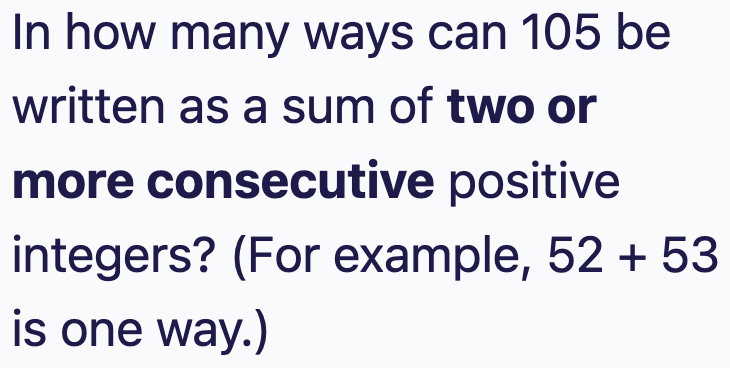
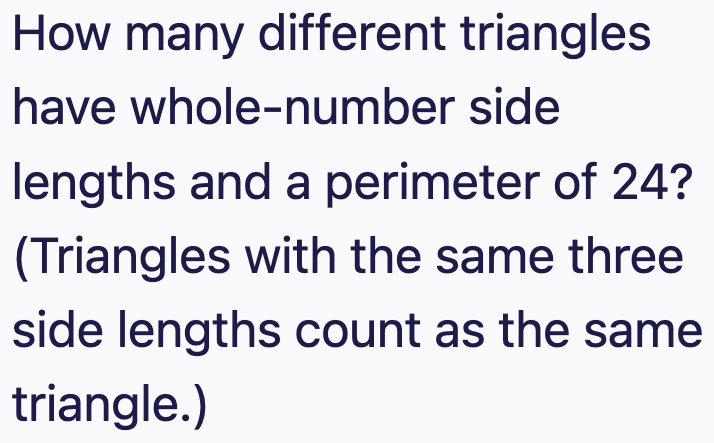
Session 5: make the last two problems really hard (chords, integer triangles)

diff --git a/docs/season/day05_coach_dd994bfe.html b/docs/season/day05_coach_dd994bfe.html
@@ -239,27 +239,29 @@
 <li>Check: 938 + 938 = <b>1876</b>, and the six letters are all different. ✓ (A computer search of all cases agrees that 1876 is the greatest.)</li></ol><div class="trick"><b>⚡ Trick:</b> Start with the leftmost digit of the answer (it's usually 1), then work from the end that you can control. To make something greatest, try the biggest digits first and back off only when there's a clash.</div></div>
     </div>
     <div class="prob">
-      <div class="prob-head"><span class="qnum">9</span><span class="topic">Sets</span></div>
+      <div class="prob-head"><span class="qnum">9</span><span class="topic">Geometry (hard)</span></div>
       <img class="qimg" src="img/s5_q10.png" alt="Question image" width="245" draggable="false">
       <button onclick="openSol(this)">Show solution</button>
-      <div class="solution"><span class="ans">Answer: 266</span><ol>
-<li>Count the numbers divisible by at least one of them using inclusion and exclusion. From 1 to 999:
-  <br>by 2: 499, by 3: 333, by 5: 199
-  <br>by 6: 166, by 10: 99, by 15: 66
-  <br>by 30: 33</li>
-<li>At least one = 499 + 333 + 199 − 166 − 99 − 66 + 33 = 733.</li>
-<li>None of them = 999 − 733 = <b>266</b>.</li>
-<li>Quick check: the pattern repeats every 30 numbers, and 8 of every 30 work (1, 7, 11, 13, 17, 19, 23, 29). 999 = 33 × 30 + 9, so 33 × 8 = 264, plus 1 and 7 from the last 9 numbers, gives 266. ✓</li></ol><div class="trick"><b>⚡ Trick:</b> Three sets: add the singles, subtract the pairs, add back the triple. Then "none" = total − "at least one".</div></div>
+      <div class="solution"><span class="ans">Answer: 4</span><ol>
+<li>Find the <b>longest</b> chord through P: the diameter, length 26.</li>
+<li>Find the <b>shortest</b> chord through P: the one perpendicular to OP. Its half-length comes from a right triangle with hypotenuse 13 and leg 5: √(169 − 25) = 12. So the shortest chord is 24.</li>
+<li>As the chord turns around P, its length slides smoothly from 26 down to 24 and back up to 26. So every length between 24 and 26 appears <b>twice</b> (once on each side), except the shortest and longest, which appear once each.</li>
+<li>Whole-number lengths: 24 (1 chord), 25 (2 chords), 26 (1 chord).</li>
+<li>Total: 1 + 2 + 1 = <b>4</b>.</li></ol><div class="trick"><b>⚡ Trick:</b> Chords through a fixed point: find the shortest (perpendicular to the radius line) and the longest (the diameter). Every length in between happens twice by symmetry.</div></div>
     </div>
     <div class="prob">
-      <div class="prob-head"><span class="qnum">10</span><span class="topic">Number theory</span></div>
-      <img class="qimg" src="img/s5_q11.png" alt="Question image" width="243" draggable="false">
+      <div class="prob-head"><span class="qnum">10</span><span class="topic">Counting (hard)</span></div>
+      <img class="qimg" src="img/s5_q11.png" alt="Question image" width="238" draggable="false">
       <button onclick="openSol(this)">Show solution</button>
-      <div class="solution"><span class="ans">Answer: 7</span><ol>
-<li>A sum of <i>k</i> consecutive integers starting at <i>a</i> is <i>k</i> × (middle value). Every way matches one <b>odd factor</b> of the number.</li>
-<li>105 = 3 × 5 × 7 has 8 odd factors: 1, 3, 5, 7, 15, 21, 35, 105.</li>
-<li>The factor 1 gives just "105" on its own, which isn't two or more numbers. So there are 8 − 1 = <b>7</b> ways.</li>
-<li>For example: 52 + 53, 34 + 35 + 36, 19 + ... + 23, 15 + ... + 20, 12 + ... + 18, 6 + ... + 15, 1 + ... + 14. ✓</li></ol><div class="trick"><b>⚡ Trick:</b> The number of ways to write N as a sum of consecutive positive integers equals the number of <b>odd</b> factors of N, minus 1 for N by itself.</div></div>
+      <div class="solution"><span class="ans">Answer: 12</span><ol>
+<li>Call the sides <i>a</i> ≤ <i>b</i> ≤ <i>c</i> with <i>a</i> + <i>b</i> + <i>c</i> = 24.</li>
+<li>Triangle rule: <i>a</i> + <i>b</i> &gt; <i>c</i>. Since <i>a</i> + <i>b</i> = 24 − <i>c</i>, this means 24 − <i>c</i> &gt; <i>c</i>, so <i>c</i> &lt; 12. Also <i>c</i> is the biggest side, so <i>c</i> ≥ 8.</li>
+<li>Go through each <i>c</i> and count pairs <i>a</i> ≤ <i>b</i> ≤ <i>c</i> with <i>a</i> + <i>b</i> = 24 − <i>c</i>:
+  <br><i>c</i> = 11: <i>a</i> + <i>b</i> = 13 → (2,11), (3,10), (4,9), (5,8), (6,7): 5
+  <br><i>c</i> = 10: <i>a</i> + <i>b</i> = 14 → (4,10), (5,9), (6,8), (7,7): 4
+  <br><i>c</i> = 9: <i>a</i> + <i>b</i> = 15 → (6,9), (7,8): 2
+  <br><i>c</i> = 8: <i>a</i> + <i>b</i> = 16 → (8,8): 1</li>
+<li>Total: 5 + 4 + 2 + 1 = <b>12</b>. (A computer search agrees.)</li></ol><div class="trick"><b>⚡ Trick:</b> Sort the sides so <i>a</i> ≤ <i>b</i> ≤ <i>c</i>. The triangle rule then says the biggest side is less than half the perimeter. Count case by case on the biggest side.</div></div>
     </div>
     </div>
   </div>

diff --git a/docs/season/day05.html b/docs/season/day05.html
@@ -188,13 +188,13 @@
       <button disabled>🔒 Answer locked</button>
     </div>
     <div class="prob">
-      <div class="prob-head"><span class="qnum">9</span><span class="topic">Sets</span></div>
+      <div class="prob-head"><span class="qnum">9</span><span class="topic">Geometry (hard)</span></div>
       <img class="qimg" src="img/s5_q10.png" alt="Question image" width="245" draggable="false">
       <button disabled>🔒 Answer locked</button>
     </div>
     <div class="prob">
-      <div class="prob-head"><span class="qnum">10</span><span class="topic">Number theory</span></div>
-      <img class="qimg" src="img/s5_q11.png" alt="Question image" width="243" draggable="false">
+      <div class="prob-head"><span class="qnum">10</span><span class="topic">Counting (hard)</span></div>
+      <img class="qimg" src="img/s5_q11.png" alt="Question image" width="238" draggable="false">
       <button disabled>🔒 Answer locked</button>
     </div>
     </div>
